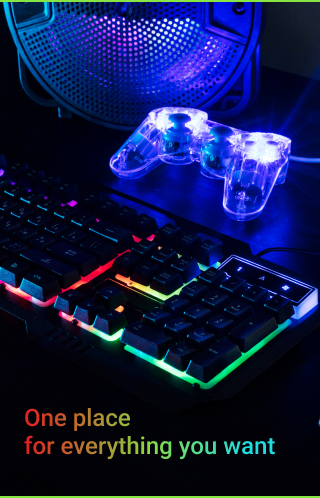
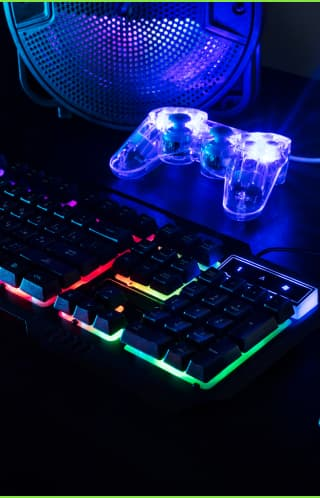
pictures-added

diff --git a/src/partials/slider.html b/src/partials/slider.html
@@ -9,18 +9,89 @@
         <picture>
           <source
             srcset="
+              ./images/melnyk/banner-1.jpg    1x,
+              ./images/melnyk/banner-1-2x.jpg 2x
+            "
+            media="(min-width: 1200px)"
+          />
+          <source
+            srcset="
+              ./images/melnyk/banner-tab-1.jpg    1x,
+              ./images/melnyk/banner-tab-1-2x.jpg 2x
+            "
+            media="(min-width: 768px)"
+          />
+          <source
+            srcset="
               ./images/melnyk/banner-mob-1.jpg    1x,
               ./images/melnyk/banner-mob-1-2x.jpg 2x
             "
             media="(min-width: 480px)"
           />
+          <img
+            src="./images/melnyk/banner-1.jpg"
+            alt="accessories-for-gamers"
+            width="450"
+          />
         </picture>
         <p>One place for everything you want</p>
       </div>
       <div class="swiper-slide">
+        <picture>
+          <source
+            srcset="
+              ./images/melnyk/banner-2.jpg    1x,
+              ./images/melnyk/banner-2-2x.jpg 2x
+            "
+            media="(min-width: 1200px)"
+          />
+          <source
+            srcset="
+              ./images/melnyk/banner-tab-2.jpg    1x,
+              ./images/melnyk/banner-tab-2-2x.jpg 2x
+            "
+            media="(min-width: 768px)"
+          />
+          <source
+            srcset="
+              ./images/melnyk/banner-mob-2.jpg    1x,
+              ./images/melnyk/banner-mob-2-2x.jpg 2x
+            "
+            media="(min-width: 480px)"
+          />
+          <img src="./images/melnyk/banner-2.jpg" alt="gamers" width="450" />
+        </picture>
         <p>Best shop for buying gaming products</p>
       </div>
       <div class="swiper-slide">
+        <picture>
+          <source
+            srcset="
+              ./images/melnyk/banner-3.jpg    1x,
+              ./images/melnyk/banner-3-2x.jpg 2x
+            "
+            media="(min-width: 1200px)"
+          />
+          <source
+            srcset="
+              ./images/melnyk/banner-tab-3.jpg    1x,
+              ./images/melnyk/banner-tab-3-2x.jpg 2x
+            "
+            media="(min-width: 768px)"
+          />
+          <source
+            srcset="
+              ./images/melnyk/banner-mob-3.jpg    1x,
+              ./images/melnyk/banner-mob-3-2x.jpg 2x
+            "
+            media="(min-width: 480px)"
+          />
+          <img
+            src="./images/melnyk/banner-3.jpg"
+            alt="accessories-for-gamers"
+            width="450"
+          />
+        </picture>
         <p>High-quality products in lowest price</p>
       </div>
       ...
